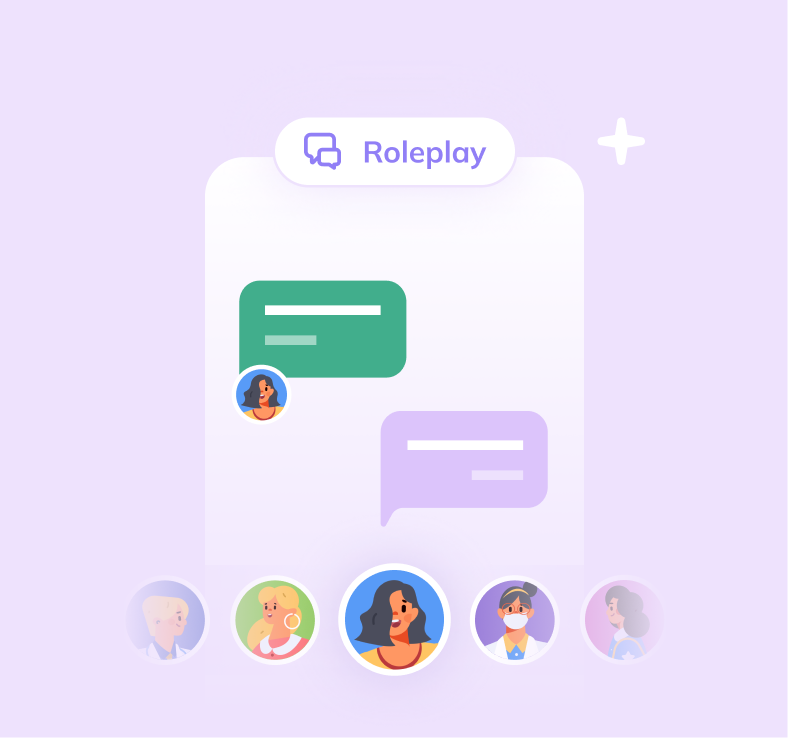
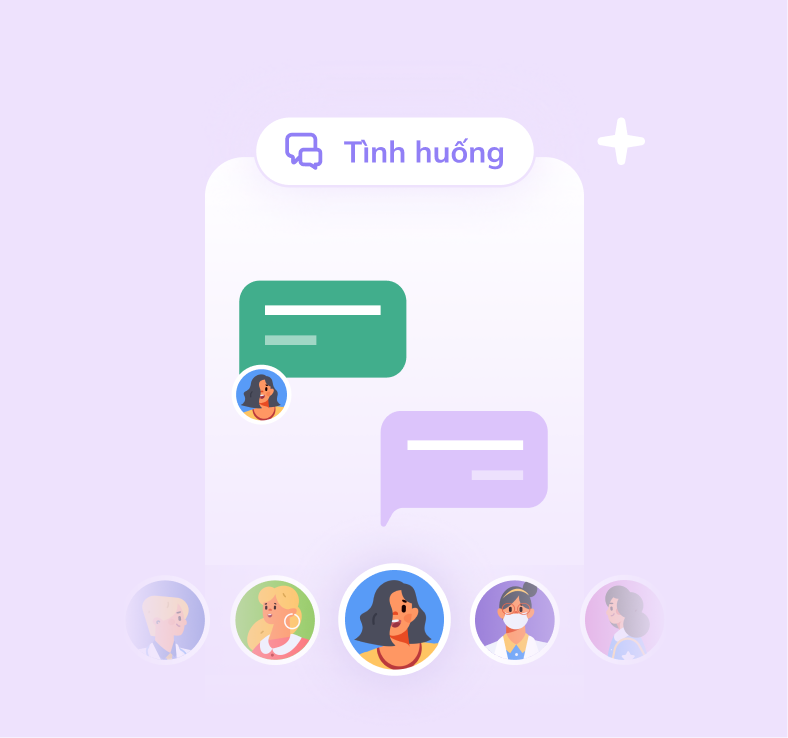
refactor: Update roleplay intro images and localization logic

Changed region(s): [[0.3046, 0.1558, 0.7005, 0.2493]]

diff --git a/lib/src/roleplay/presentation/widgets/roleplay_intro/roleplay_intro_popup.dart b/lib/src/roleplay/presentation/widgets/roleplay_intro/roleplay_intro_popup.dart
@@ -216,7 +216,6 @@ class _IntroStepContent extends StatelessWidget {
               AppText(
                 step.title,
                 maxLines: 2,
-                enableFitScaleDown: true,
                 textAlign: TextAlign.center,
                 style: step.titleStyle,
               ),

diff --git a/tools/macos/localization/localization_cli.py b/tools/macos/localization/localization_cli.py
@@ -224,7 +224,18 @@ def parse_key_params(raw_key: str) -> Tuple[str, List[str]]:
 def detect_placeholders(text: str) -> List[str]:
     if not text:
         return []
-    # Ignore ICU plural/select placeholders after the first comma (e.g., {count, plural, ...})
+    icu_match = re.match(r"^\{\s*(\w+)\s*,\s*(plural|select\w*)\s*,(.*)\}\s*$", text, re.S)
+    if icu_match:
+        # For ICU strings the first token is the selector param (e.g., count).
+        # Collect that param and any placeholders inside category bodies, but
+        # ignore the braces that merely delimit categories like `{zero {Updating}}`.
+        placeholders: Set[str] = {icu_match.group(1)}
+        cat_map = icu_to_category_map(text)
+        if cat_map:
+            for body in cat_map.values():
+                placeholders.update(detect_placeholders(body))
+        return sorted(placeholders)
+
     brace_placeholders = re.findall(r"\{([a-zA-Z_][\w]*)\}", text)
     dollar_placeholders = re.findall(r"\$\{?([a-zA-Z_][\w]*)\}?", text)
     candidates = set(brace_placeholders + dollar_placeholders)
